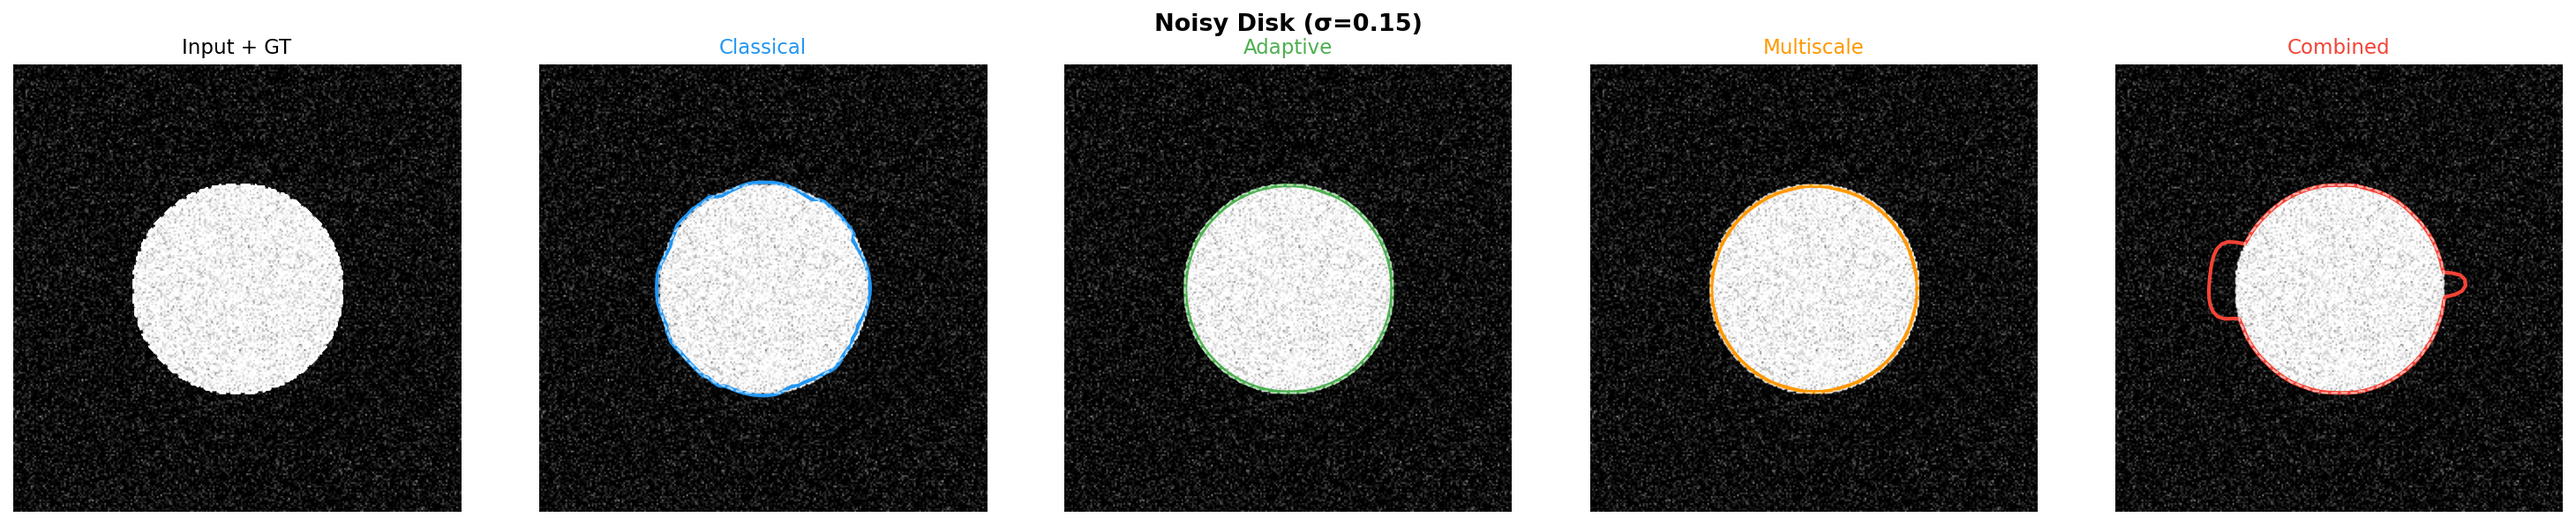
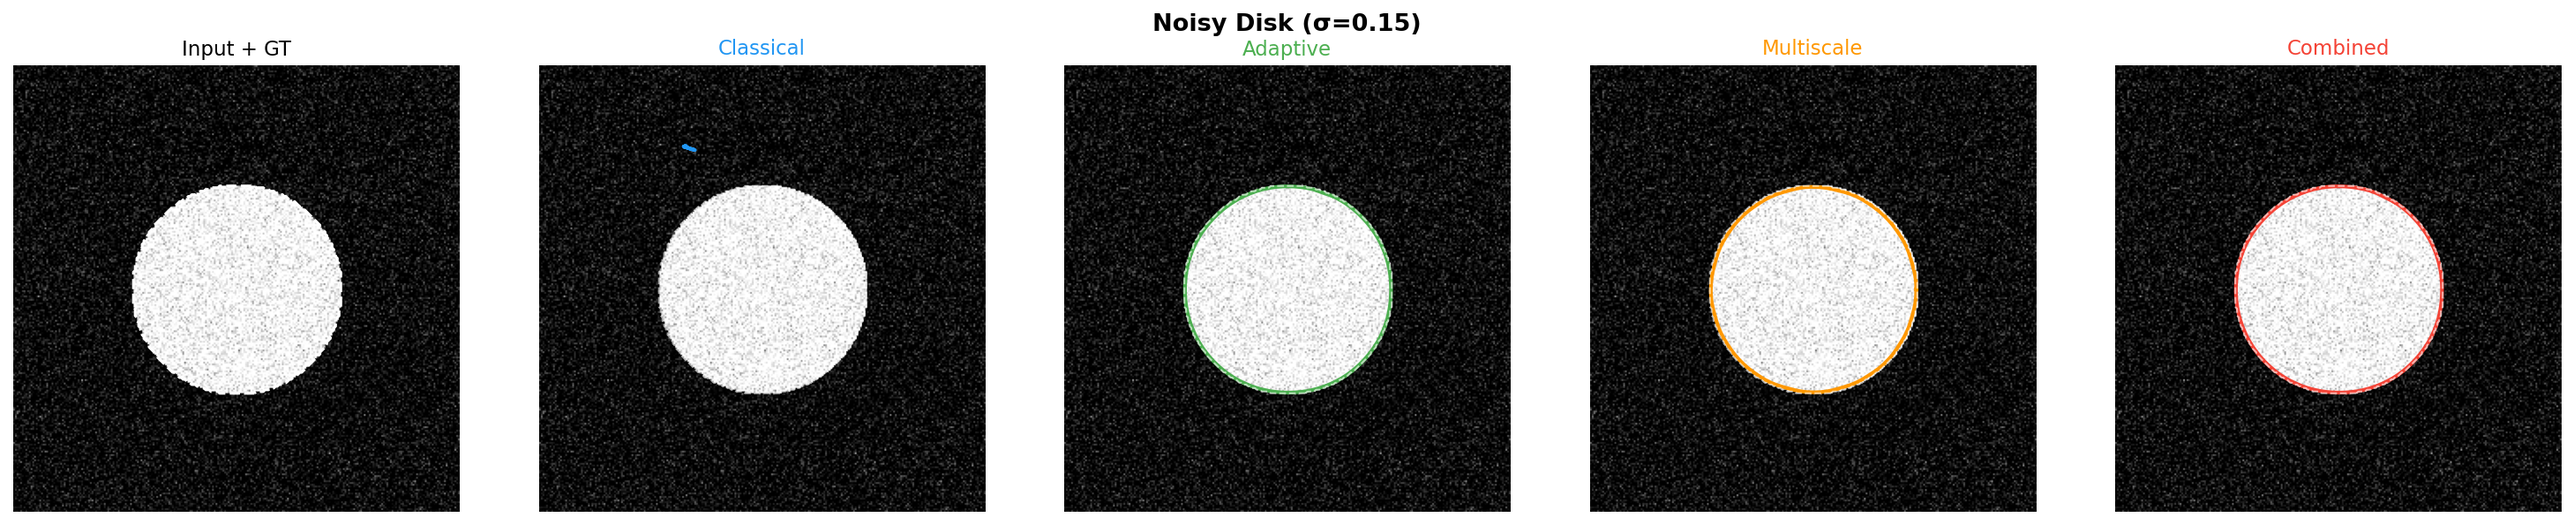
Implement Combined Snake

diff --git a/src/combined_snake.py b/src/combined_snake.py
@@ -1,5 +1,6 @@
 import numpy as np
 from skimage.filters import gaussian
+from skimage.transform import rescale
 
 from .adaptive_snake import AdaptiveSnake
 from .energy import compute_external_forces
@@ -7,81 +8,103 @@ from .energy import compute_external_forces
 
 class CombinedSnake(AdaptiveSnake):
     """
-    Combined coarse-to-fine + spatially adaptive snake.
+    Combined coarse-to-fine (multi-scale) + spatially adaptive snake.
 
-    At each pyramid level the contour is refined using the adaptive implicit
-    time-stepping solver (position-dependent beta).  Moving from coarse to
-    fine levels gives a strong warm-start initialization while the adaptive
-    weights handle heterogeneous edge strength within each level.
-
-    Inherits all adaptive parameters from AdaptiveSnake.
-    Additional parameters control the multi-scale pyramid.
+    1. Coarse-to-Fine: Constructs a spatial image pyramid. The snake is initialized
+       on a low-resolution image to bypass local minima, then upscaled to higher resolutions.
+    2. Adaptive: At each level, the bending stiffness (beta) adapts to the local 
+       gradient of that specific resolution level.
     """
 
     def __init__(
         self,
-        sigma_coarse=8.0,
-        sigma_fine=3.0,   # force field involves 2nd-order derivatives; noise ∝ 1/σ², so keep σ≥3
         n_levels=3,
         n_iter_per_level=None,
         **adaptive_kwargs,
     ):
         super().__init__(**adaptive_kwargs)
-        self.sigma_coarse = sigma_coarse
-        self.sigma_fine = sigma_fine
         self.n_levels = n_levels
-        total = adaptive_kwargs.get("n_iter", 500)
-        self.n_iter_per_level = n_iter_per_level or max(1, total // n_levels)
+        
+        # Divide the total iterations evenly across the pyramid levels
+        total_iter = adaptive_kwargs.get("n_iter", 500)
+        self.n_iter_per_level = n_iter_per_level or max(1, total_iter // n_levels)
 
-    def _build_pyramid(self, image):
-        """Coarsest-first list of smoothed images."""
-        sigmas = np.linspace(self.sigma_coarse, self.sigma_fine, self.n_levels)
-        return [gaussian(image.astype(float), sigma=s) for s in sigmas]
+    def _build_spatial_pyramid(self, image):
+        """
+        Step 1: Construct a multi-scale spatial pyramid.
+        Returns a list of images ordered from COARSE (low-res) to FINE (original-res).
+        """
+        pyramid = [image]
+        current_img = image
+        
+        # Iteratively downsample the image by a factor of 0.5
+        for _ in range(self.n_levels - 1):
+            # rescale with anti_aliasing=True automatically applies a Gaussian blur
+            # before shrinking, which prevents sampling artifacts.
+            current_img = rescale(current_img, 0.5, anti_aliasing=True)
+            pyramid.append(current_img)
+            
+        # The list is currently [Fine, Medium, Coarse]. 
+        # We reverse it to [Coarse, Medium, Fine] for the optimization loop.
+        return pyramid[::-1]
 
     def fit(self, image, init_snake):
         """
-        Parameters
-        ----------
-        image      : (H, W) float ndarray in [0, 1]
-        init_snake : (N, 2) ndarray of (row, col) initial contour
-
-        Returns
-        -------
-        snake   : (N, 2) final contour
-        history : list of (N, 2) snapshots across all pyramid levels
+        Step 2: The Coarse-to-Fine Optimization Loop
         """
-        pyramid = self._build_pyramid(image)
-        snake = init_snake.copy().astype(float)
-        n = len(snake)
-        h, w = image.shape
-        history = [snake.copy()]
+        pyramid = self._build_spatial_pyramid(image)
+        
+        # Scale the initial contour to match the coarsest (smallest) image level
+        # If n_levels = 3, scale_factor = 0.5^2 = 0.25
+        scale_factor = 0.5 ** (self.n_levels - 1)
+        snake = init_snake.copy().astype(float) * scale_factor
+        
+        history = []
 
-        for level_img in pyramid:
-            # Pyramid image is already smoothed — use minimal extra sigma to avoid
-            # double-blurring, which would misplace the force field.
+        # Iterate from Coarse (low-res) to Fine (high-res)
+        for level_idx, level_img in enumerate(pyramid):
+            h, w = level_img.shape
+            
+            # Compute forces for the CURRENT resolution level
+            # We use a small sigma because the image is already smoothed from downsampling
             fy, fx = compute_external_forces(
-                level_img, sigma=0.5, wline=self.wline, wedge=self.wedge
+                level_img, sigma=self.sigma, wline=self.wline, wedge=self.wedge
             )
+            
+            # Normalize forces
             fscale = max(np.abs(fx).max(), np.abs(fy).max(), 1e-8)
             fx = fx / fscale
             fy = fy / fscale
 
             inv = None
+            
+            # Optimization loop for the current level
             for it in range(self.n_iter_per_level):
+                # IMPORTANT FIX: Pass `level_img` instead of `image` so beta calculates correctly
                 if it % self.update_every == 0:
-                    beta_arr = self._adaptive_beta(image, snake)
-                    A = self._build_matrix(n, beta_arr)
-                    inv = np.linalg.inv(A + self.gamma * np.eye(n))
+                    beta_arr = self._adaptive_beta(level_img, snake)
+                    A = self._build_matrix(len(snake), beta_arr)
+                    inv = np.linalg.inv(A + self.gamma * np.eye(len(snake)))
 
                 fyn, fxn = self._force_at_snake(fy, fx, snake, h, w)
+                
                 yn = inv @ (self.gamma * snake[:, 0] + fyn)
                 xn = inv @ (self.gamma * snake[:, 1] + fxn)
+                
                 snake[:, 0] = np.clip(yn, 0, h - 1)
                 snake[:, 1] = np.clip(xn, 0, w - 1)
 
                 if self.reparam_every > 0 and (it + 1) % self.reparam_every == 0:
                     snake = self._reparameterize(snake)
 
-            history.append(snake.copy())
+            # Save the final contour of this level to history
+            # (We multiply by the inverse scale so history is easily visualizable on the original image)
+            current_scale_up = 2 ** (self.n_levels - 1 - level_idx)
+            history.append(snake.copy() * current_scale_up)
+
+            # If this is not the last level (original image), upscale the snake 
+            # coordinates by x2 to act as the initialization for the next, larger level.
+            if level_idx < self.n_levels - 1:
+                snake = snake * 2.0
 
         return snake, history

diff --git a/main.py b/main.py
@@ -65,8 +65,7 @@ def main():
                                       n_levels=3, n_iter=2500),
         "Combined":  CombinedSnake(alpha=0.015, beta_min=0.005, beta_max=0.3,
                                    k=5.0, gamma=5.0, sigma=8.0, n_iter=2000,
-                                   reparam_every=50, sigma_coarse=8.0,
-                                   sigma_fine=3.0, n_levels=3),
+                                   reparam_every=50, n_levels=3),
     }
 
     results, snakes = {}, {}

diff --git a/experiments/run_experiments.py b/experiments/run_experiments.py
@@ -69,9 +69,8 @@ def build_methods():
         ),
         "Combined": CombinedSnake(
             alpha=0.015, beta_min=0.005, beta_max=0.3, k=5.0,
-            gamma=5.0, sigma=8.0, n_iter=2000, update_every=20,
-            reparam_every=50, sigma_coarse=4.0, sigma_fine=3.0,
-            n_levels=3, wedge=1.0
+            gamma=5.0, sigma=8.0, n_iter=2500, update_every=20,
+            reparam_every=50, n_levels=3, wedge=1.0
         ),
     }
 
